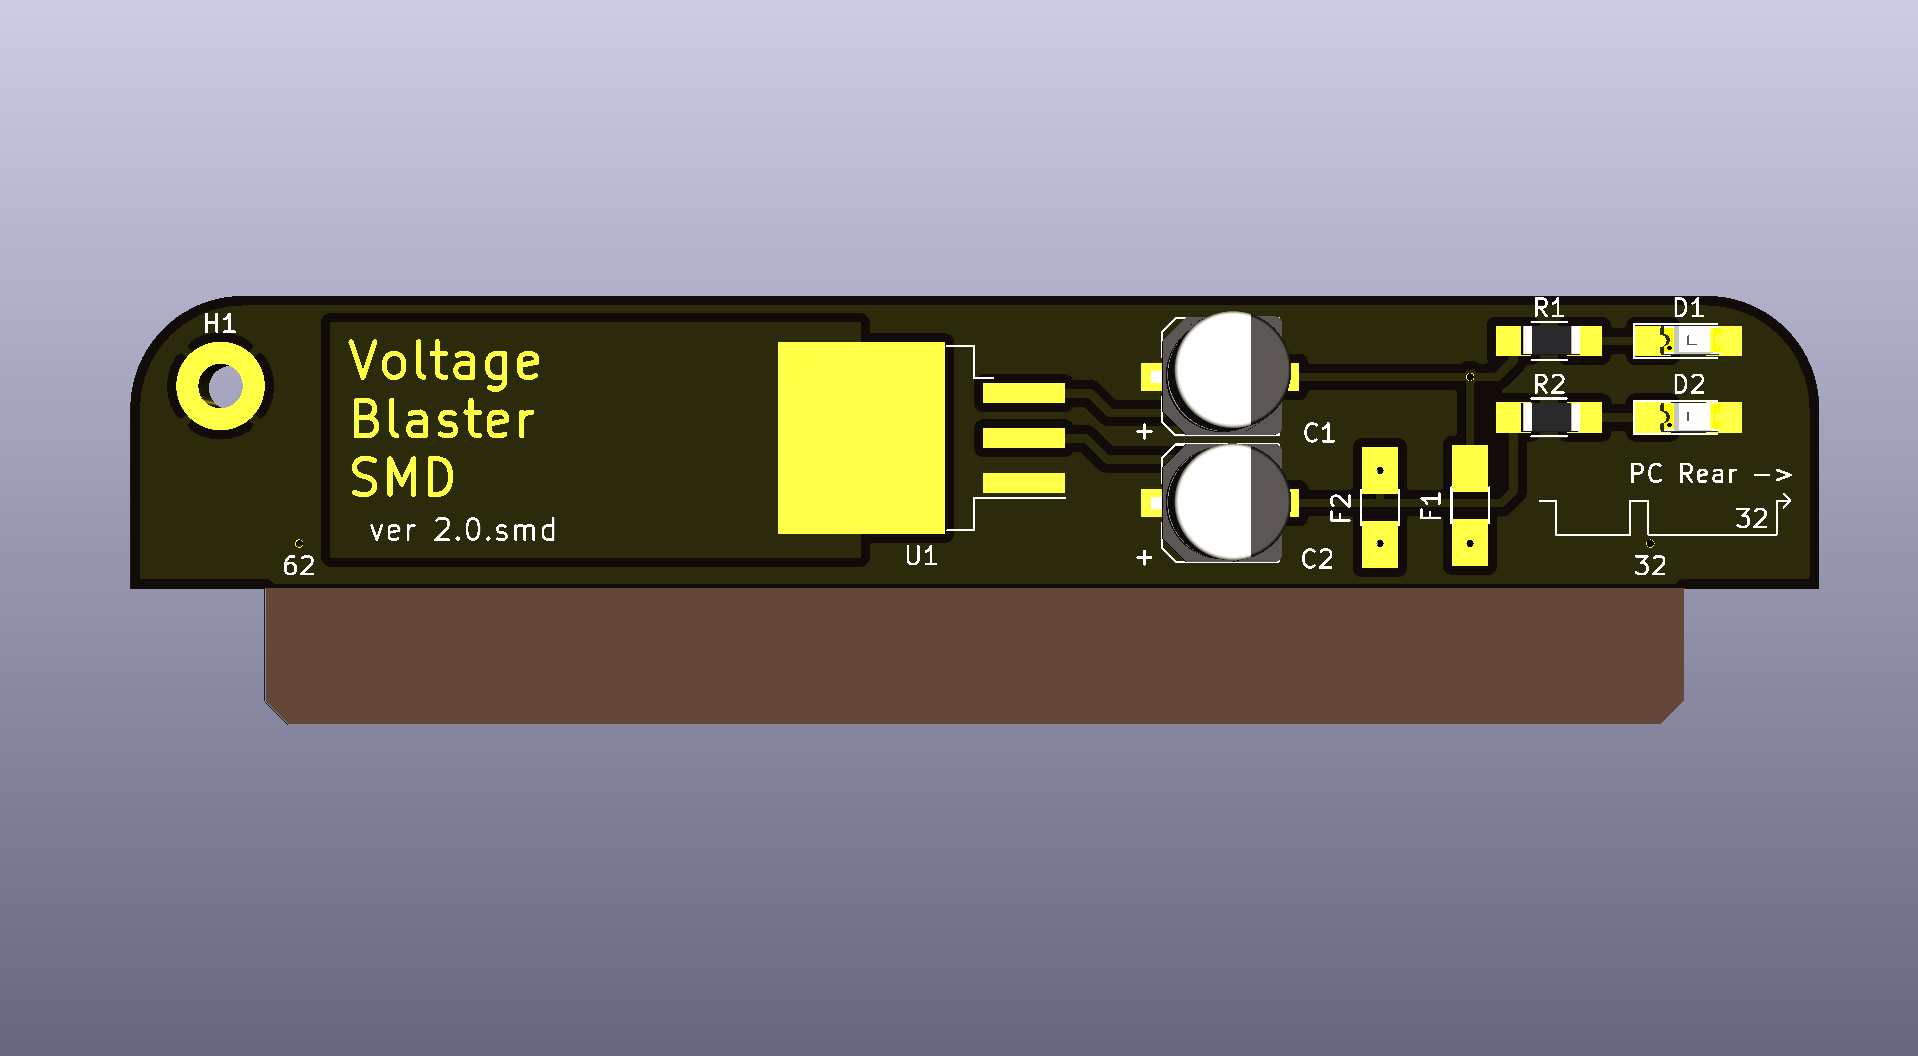
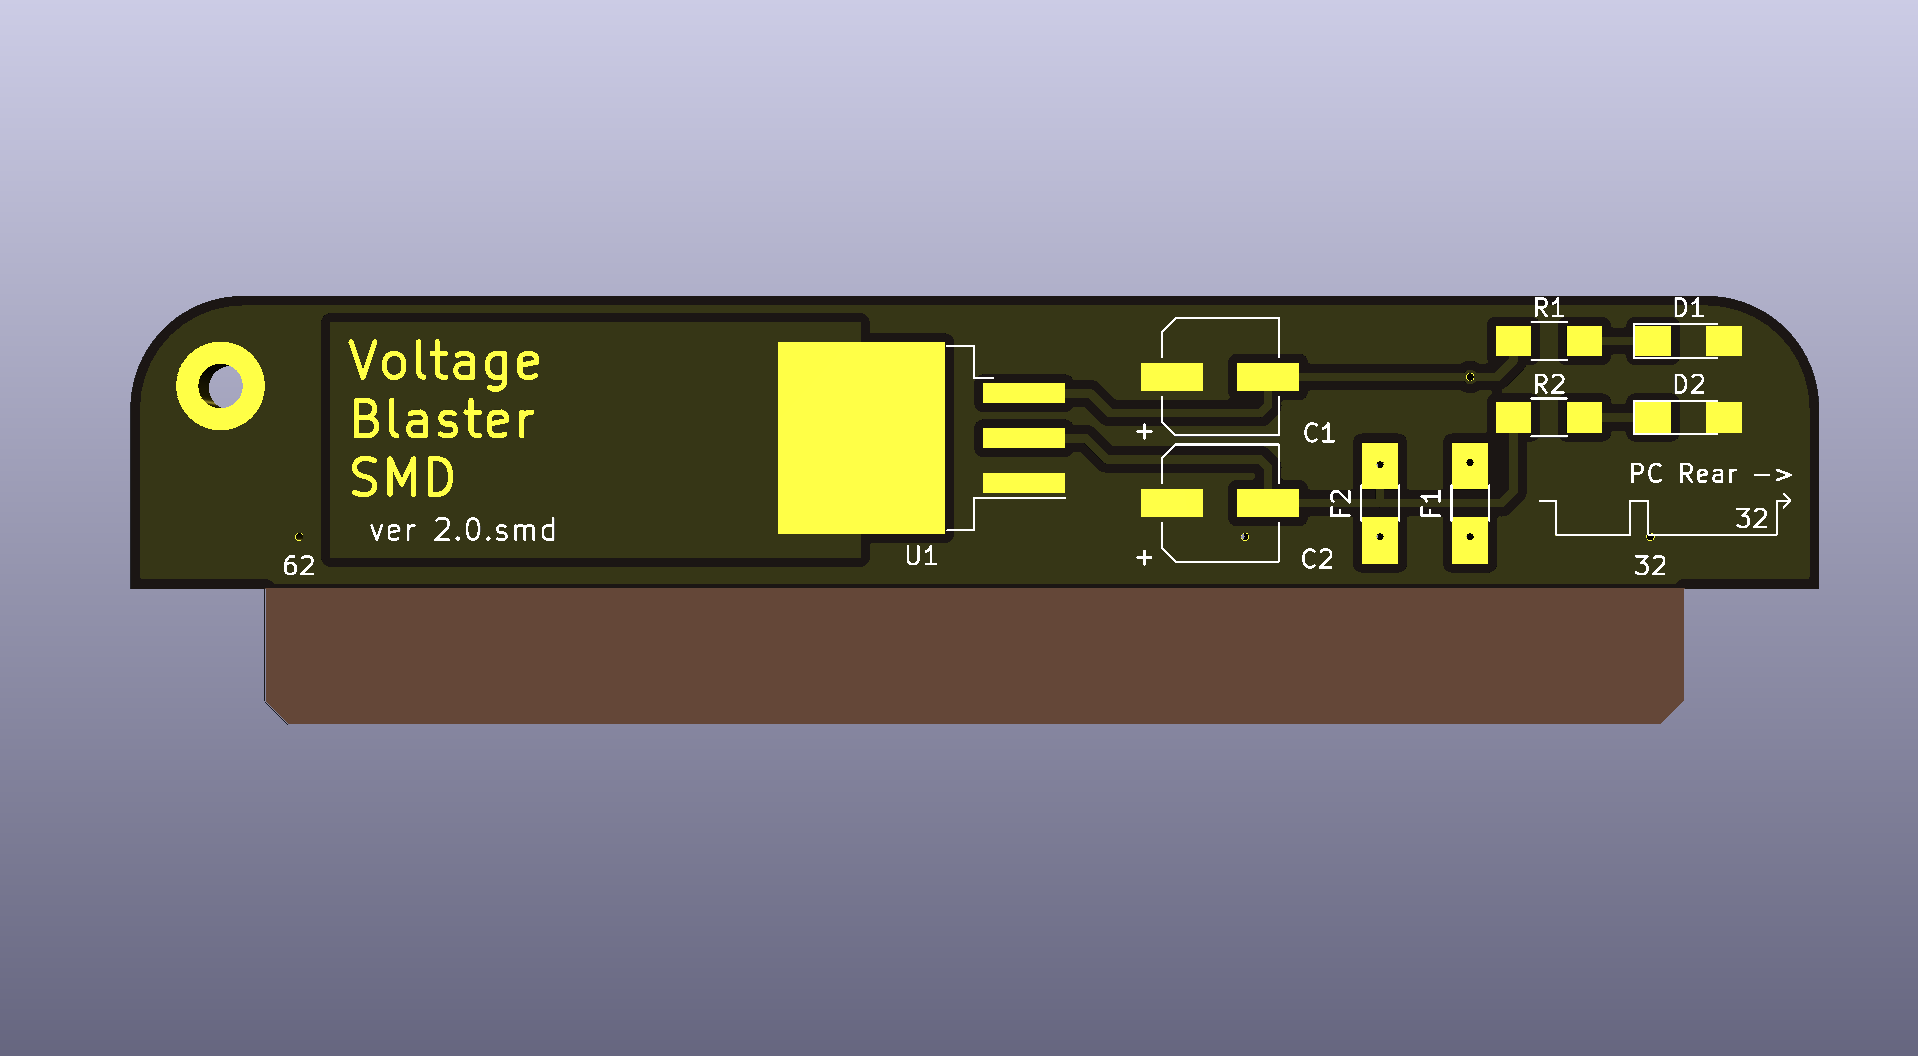
updates

diff --git a/README.md b/README.md
@@ -33,10 +33,16 @@ SCH
 
 Many thanks to Necroware and PhilsComputerLab, I owe you some beers..
 
-## SMD Version 2.0
+# Voltage Blaster SMD
+
+![voltage-blaster-pcb-smd](images/voltage-blaster-smd.png)
+
+In Version 2 I have moved all components to SMD variants
 
 ![voltage-blaster-pcb-smd](images/voltage-blaster-smd-front.png)
 ![voltage-blaster-pcb-smd](images/voltage-blaster-smd-back.png)
+
+## SMD Changelog 
 
 * Added - SMD version with TO-263-3 package (LM2990S-5.0/NOPB LCSC-C201697)
 * Updated - Componets to SMD variants
@@ -47,6 +53,21 @@ Many thanks to Necroware and PhilsComputerLab, I owe you some beers..
 * Moved - Logo and credits to rear
 * Updated - Verison numbers
 * Add? - Minimum load resistor?
+
+## SMD BOM
+
+Reference  |#  |LCSC   |Description
+-----------|---|-------|-------------------------------------
+U1         | 1 |C201697| linear voltage regulator
+C1,C2      | 2 |C88824 | electrolytic capacitor 33µF
+F1         | 1 |C692148| fuse
+F2         | 1 |C692149| fuse
+D1         | 1 |C192678| light emitting diode
+D2         | 1 |C192674| light emitting diode
+R1,R2      | 1 |C269588| resistor
+
+
+# Original Voltage Blaster Description
 
 ## Why do I need this?
 
